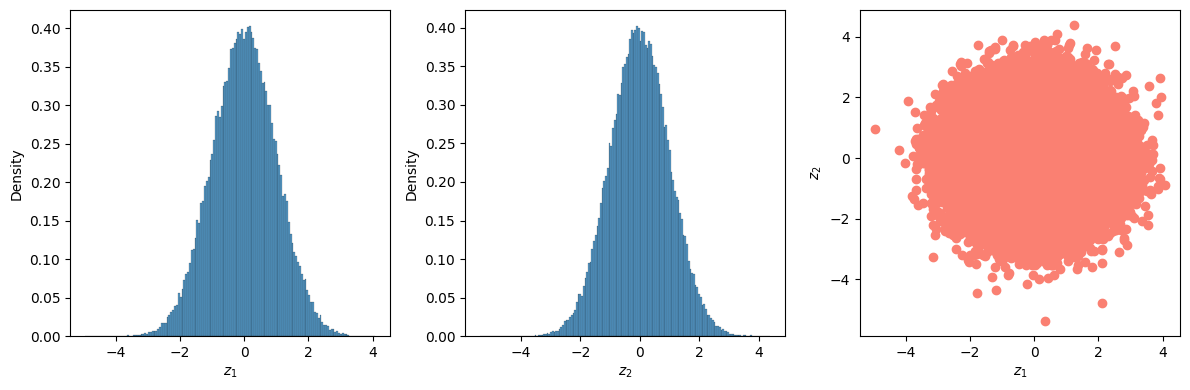
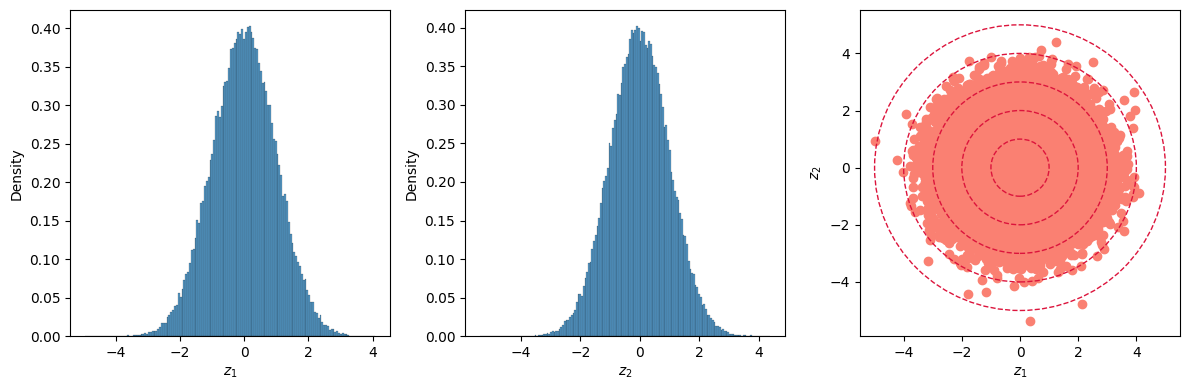
more comments

diff --git a/_posts/2021-09-01-beta-distribution.md b/_posts/2021-09-01-beta-distribution.md
@@ -77,6 +77,7 @@ which we can easily compute given $\mu$ and $\sigma$.
 
 
 ```python
+from matplotlib.patches import Circle
 import matplotlib.pyplot as plt
 import numpy as np
 from scipy.optimize import minimize
@@ -364,7 +365,8 @@ ax2.scatter(Z[:, 0], Z[:, 1], color='salmon')
 ax0.set_xlabel('$z_1$')
 ax1.set_xlabel('$z_2$')
 ax2.set_xlabel('$z_1$'); ax2.set_ylabel('$z_2$')
-# ax2.add_patch(Rectangle((-1, -1), 2, 2, linestyle='dashed', color='red', alpha=1, fill=None))
+for r in [1, 2, 3, 4, 5]:
+    ax2.add_patch(Circle((0, 0), r, linestyle='dashed', color='crimson', alpha=1, fill=None))
 fig.tight_layout()
 ```
 
@@ -374,7 +376,8 @@ fig.tight_layout()
     
 
 
-Although the second code $c_2$ isn't quite symmetric, they both are broadly in the (-3, 3) interval, as we would expect from a standard normal variate. It is then much easier to generate new values or look for the optimal ones that match a given, which is what we try now to do. First, we generate two random values for $\alpha$ and $\beta$ and compute the corresponding exact PDF; then we use `scipy` to find the values of $(c_1, c_2)$ that produce the closest match.
+Both latent dimensions $z_1$ and $z_2$ have a distribution resembling the one of a Normal variate; their joint distribution is nicely scattered around the origin are roughtly within 3 to 4 standard deviations, as the red circles (with a radious of 1, 2, 3 and 4, respectively) show.
+It is then much easier to generate new values or look for the optimal ones that match a given, which is what we try now to do. First, we generate two random values for $\alpha$ and $\beta$ and compute the corresponding exact PDF; then we use `scipy` to find the values of $(z_1, z_2)$ that produce the closest match.
 
 
 ```python
@@ -426,8 +429,8 @@ ax0.set_xlabel('x')
 ax0.set_ylabel('β(x; α, β)')
 ax0.set_title('PDF')
 ax1.set_xlabel('x')
-ax1.set_ylabel('Error')
-ax1.set_title('β(x; α, β) - β_NN(x; c_1, c_2)')
+ax1.set_title('Error')
+ax1.set_xlabel('$β(x; α, β) - \hat{β}(x; z_1, z_2)$')
 fig.tight_layout()
 ```
 
@@ -437,7 +440,9 @@ fig.tight_layout()
     
 
 
-The results isn't too bad -- true, the reconstructed curve oscillates a bit, but at a small scale. We can say that the encoder has managed to compress the input data to two parameters and the decoder to define how to build the PDF of the beta distribution from those.
+The results isn't too bad -- true, the reconstructed curve oscillates a bit, but at a small scale. the oscillations can be resolved with more training data and more iterations, or by increasing the size of the neural networks. We can say that the encoder has managed to compress the input data to two parameters and the decoder to define how to build the PDF of the beta distribution from those.
+
+And finally a nice example of what each latent variable represents by plotting, on a 10 by 10 grid, the result of the decoder for several values of $z_1$ and $z_2$, both ranging from -1 to 1, where can see the shape of the Beta distributions changing with the two parameters as we would expect. The dotted grey line indicates the zero axis; all plots share the same scale on the Y axis.
 
 
 ```python
